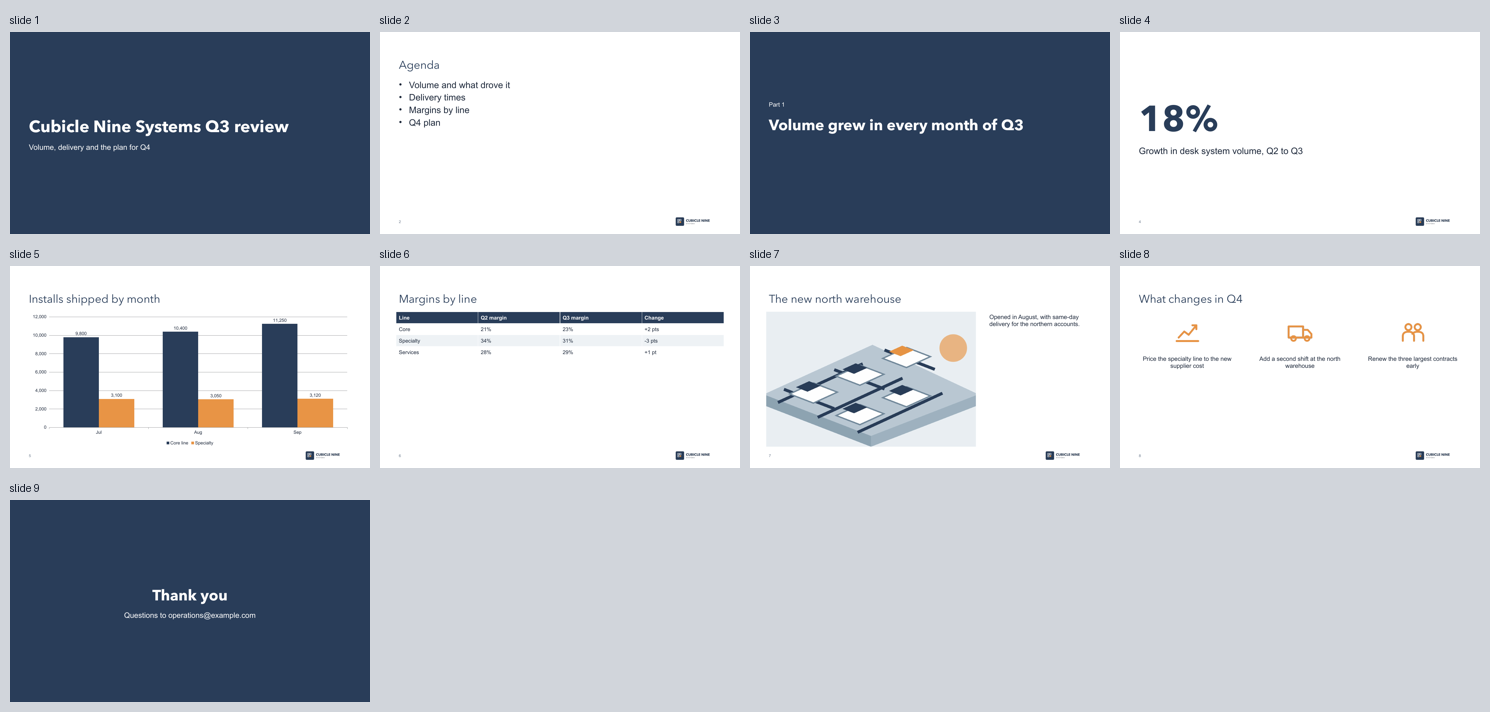
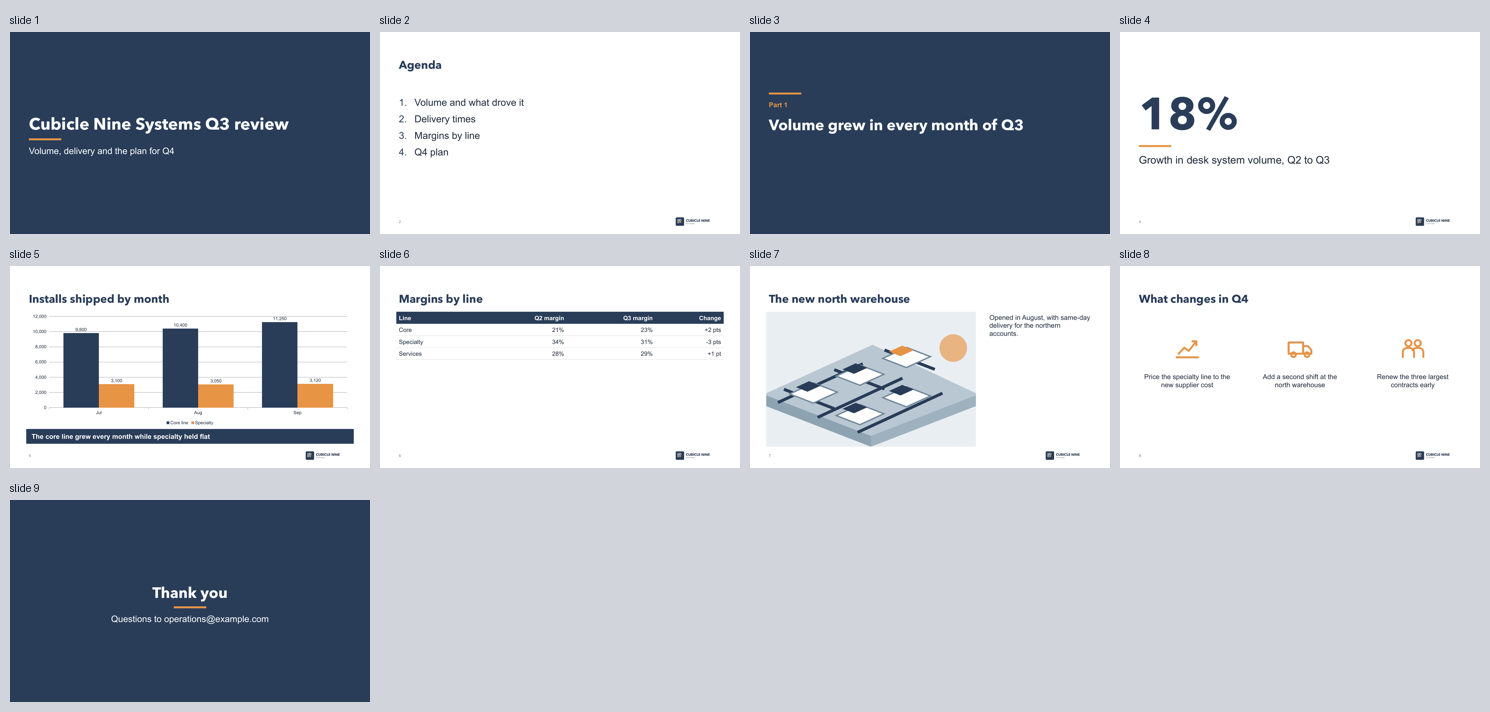
README images regenerated with the new design; design topic's layout table says four bullets or fewer

diff --git a/src/deck_builder/reference/design.md b/src/deck_builder/reference/design.md
@@ -44,7 +44,7 @@ on those layouts. The `deck-builder` and `deck-brand` skills read this topic bef
   | A place, product or screen | `image` or `image-right` |
   | A voice from outside the team | `quote` |
   | Rows a reader will look up | `table`, six rows or fewer |
-  | A short argument | `content`, three to five bullets |
+  | A short argument | `content`, four bullets or fewer |
 
 - **Digestible amounts.** Four bullets or fewer, each two lines at most, and about 40 words on a
   projected slide. Working memory holds about four chunks; the exact limits are convention. Move
